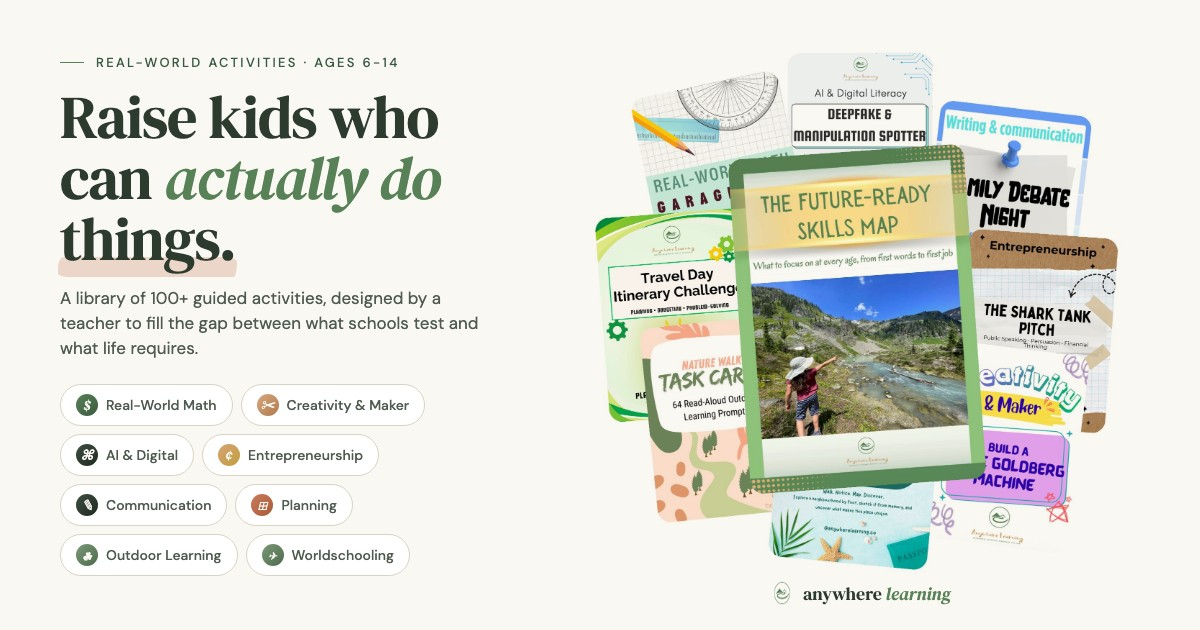
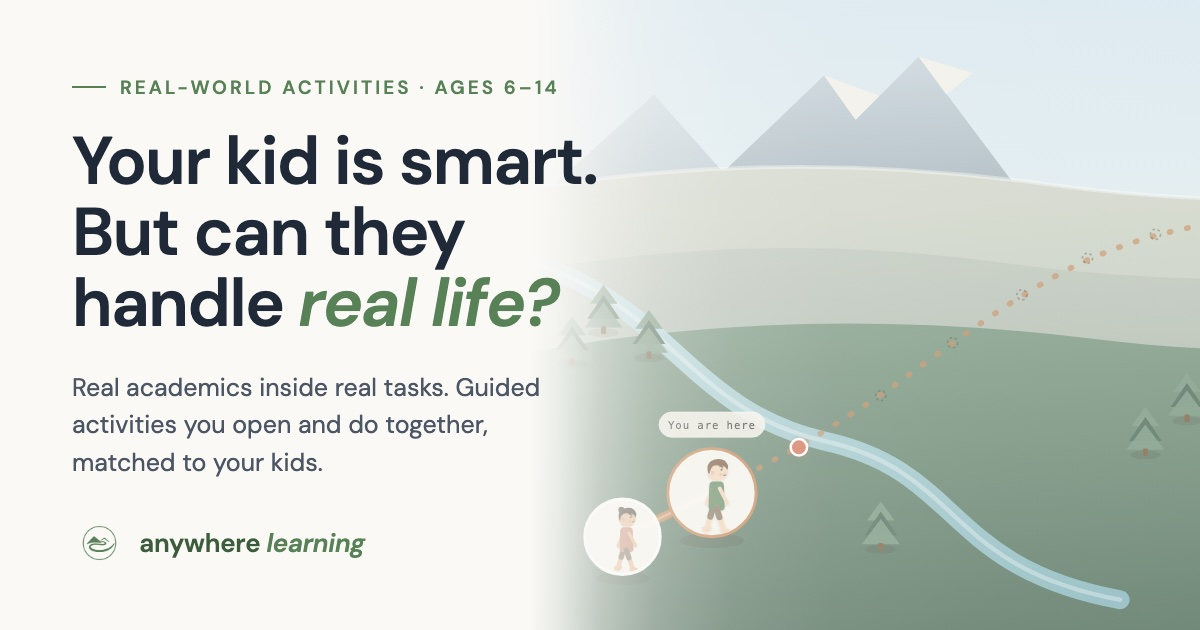
New social share card matching the adventure-map homepage
Rebuilt og-default.jpg from the current hero: eyebrow, 'Your kid is
smart. But can they handle real life?', trail illustration and the
current wordmark. Bumped the cache-buster to v=3.

diff --git a/app/layout.tsx b/app/layout.tsx
@@ -71,7 +71,7 @@ export const metadata: Metadata = {
       "Real-world activities where the academics and life skills happen in one task. Plan a party, that's fractions and budgeting. No worksheets, low prep. Ages 6-14.",
     images: [
       {
-        url: "https://anywherelearning.co/og-default.jpg?v=2",
+        url: "https://anywherelearning.co/og-default.jpg?v=3",
         width: 1200,
         height: 630,
         alt: "Real-World Learning Activities for Kids | Anywhere Learning",
